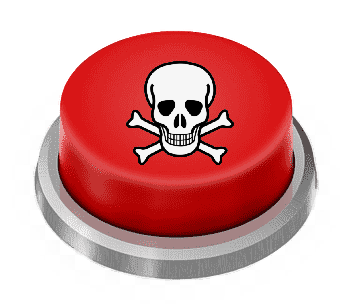
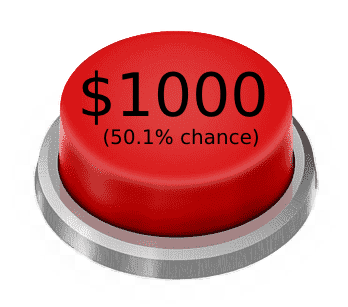
New page

Changed region(s): [[0.2874, 0.1759, 0.7759, 0.557], [0.2299, 0.2345, 0.3161, 0.4104]]

diff --git a/code/slot_logic.js b/code/slot_logic.js
@@ -1,0 +1,53 @@
+var money = 5000;
+var lose = false;
+function slot(mode) {
+    if (!lose){
+        var rand = Math.random();
+        if (mode == 1){
+            if (rand <= 0.5001){
+                document.getElementById("output").innerHTML = "+100";
+                document.getElementById("output").style.color = "green";
+                money += 200;
+            }else {
+                document.getElementById("output").innerHTML = "-100";
+                document.getElementById("output").style.color = "red";
+            }
+            money -= 100;
+
+        }else if (mode == 2){
+            if (money < 1000){
+                document.getElementById("output").innerHTML = "Insufficient funds.";
+                document.getElementById("output").style.color = "black";
+                money += 1000;
+            }else if (rand <= 0.501){
+                document.getElementById("output").innerHTML = "+1000";
+                document.getElementById("output").style.color = "green";
+                money += 2000;
+            }else {
+                document.getElementById("output").innerHTML = "-1000";
+                document.getElementById("output").style.color = "red";
+            }
+            money -= 1000;
+        }else if (mode == 3){
+            if (money < 10000){
+                document.getElementById("output").innerHTML = "Insufficient funds.";
+                document.getElementById("output").style.color = "black";
+                money += 10000;
+            }else if (rand <= 0.51){
+                document.getElementById("output").innerHTML = "+10000";
+                document.getElementById("output").style.color = "green";
+                money += 20000;
+            }else {
+                document.getElementById("output").innerHTML = "-10000";
+                document.getElementById("output").style.color = "red";
+            }
+            money -= 10000;
+        }
+        if (money > 0){
+            document.getElementById("money").innerHTML = "Money: $" + money;
+        }else{
+            lose = true;
+            document.getElementById("money").innerHTML = "You lose! Refresh to play again.";
+        }
+    }
+}

diff --git a/slot.html b/slot.html
@@ -1,0 +1,45 @@
+<html>
+<style>
+.content {
+  max-width: 960px;
+  margin: auto;
+}
+</style>
+<body>
+<div class="content">
+<p id="money">Money: $5000</p>
+<p id ="output"></p>
+<div class="row">
+  <div class="column">
+    <img src="img/button1.png" alt="50.01% chance of success" onclick="slot(1);">
+  </div>
+  <div class="column">
+    <img src="img/button2.png" alt="50.1% chance of success" onclick="slot(2);">
+  </div>
+  <div class="column">
+    <img src="img/button3.png" alt="51% chance of success" onclick="slot(3);">
+  </div>
+</div>
+<br>Press a button to try and double your bet. <br>
+</div>
+<script src="code/slot_logic.js"></script>
+</body>
+<style>
+
+#output{
+
+font-size: 40px;
+
+}
+
+.row {
+  display: flex;
+}
+
+.column {
+  flex: 33.33%;
+  padding: 5px;
+}
+
+</style>
+</html>

diff --git a/code/random.js b/code/random.js
@@ -12,7 +12,7 @@ function random() {
     }else{
         document.getElementById("output").innerHTML = "Eternal damnation awaits you.";
         document.getElementById("output").style.color = "red";
-        document.getElementById("button").src = "img/button2.png";
+        document.getElementById("button").src = "img/buttondeath.png";
         opt2 += 1;
     }
     var percent1 = Math.round(10000*(opt1/clicks))/100;
